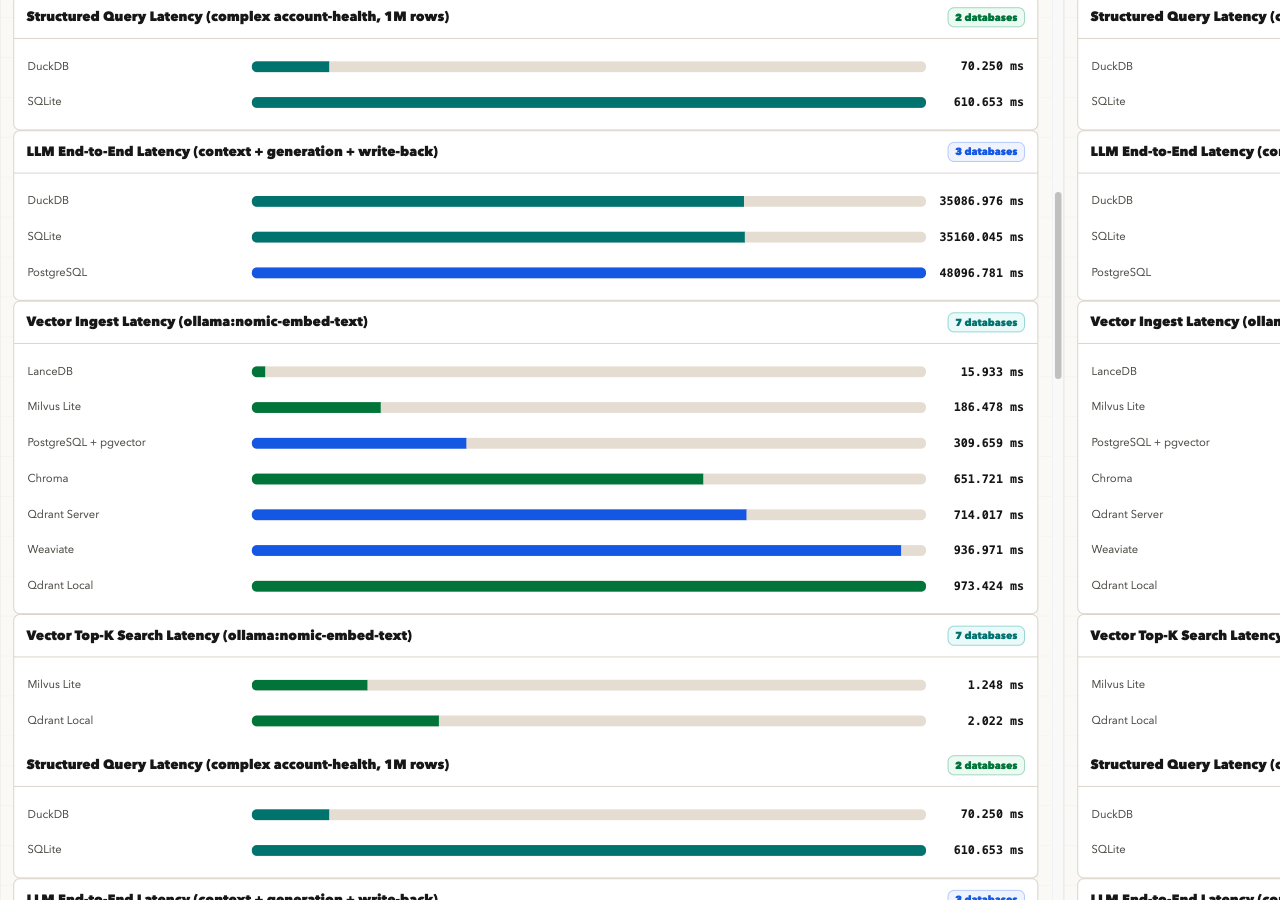
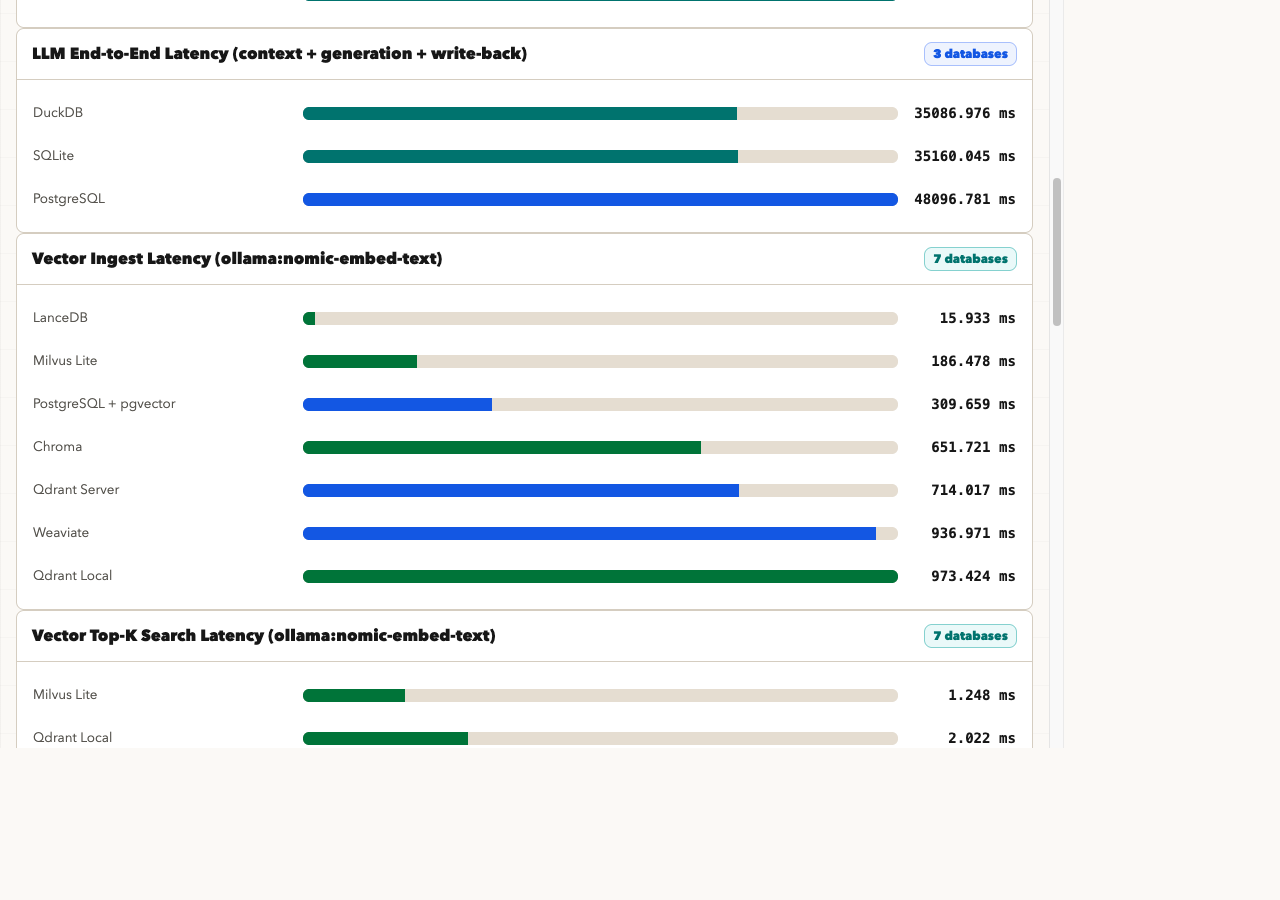
Tone down dashboard: smaller heading, remove winner/combative language, fix screenshots

diff --git a/dashboard/index.html b/dashboard/index.html
@@ -53,21 +53,18 @@
       content: "";
       position: absolute;
       inset: 0;
-      background:
-        linear-gradient(90deg, transparent 0 8%, rgba(8, 127, 122, 0.16) 8% 8.35%, transparent 8.35% 100%),
-        linear-gradient(90deg, transparent 0 38%, rgba(183, 121, 31, 0.16) 38% 38.25%, transparent 38.25% 100%),
-        linear-gradient(90deg, transparent 0 71%, rgba(37, 99, 235, 0.14) 71% 71.2%, transparent 71.2% 100%);
+      background: linear-gradient(90deg, transparent 0 8%, rgba(8, 127, 122, 0.12) 8% 8.2%, transparent 8.2% 100%);
       pointer-events: none;
     }
 
     .hero {
       position: relative;
-      min-height: 390px;
+      min-height: 0;
       display: grid;
       grid-template-columns: minmax(0, 1.05fr) minmax(390px, 0.95fr);
-      gap: 44px;
+      gap: 32px;
       align-items: center;
-      padding: 44px 0 34px;
+      padding: 34px 0 28px;
     }
 
     .eyebrow {
@@ -90,11 +87,11 @@
 
     h1 {
       margin: 0;
-      font-family: Georgia, Charter, "Times New Roman", serif;
-      font-size: clamp(2.55rem, 6.2vw, 5.8rem);
-      line-height: 0.92;
-      font-weight: 700;
-      max-width: 780px;
+      font-family: Avenir Next, Inter, ui-sans-serif, system-ui, sans-serif;
+      font-size: clamp(1.6rem, 2.6vw, 2.15rem);
+      line-height: 1.25;
+      font-weight: 800;
+      max-width: 620px;
     }
 
     .subtle {
@@ -115,7 +112,7 @@
       border: 1px solid var(--line);
       background: rgba(255, 255, 255, 0.78);
       border-radius: 8px;
-      box-shadow: 0 22px 60px rgba(23, 23, 23, 0.09);
+      box-shadow: 0 10px 26px rgba(23, 23, 23, 0.06);
       overflow: hidden;
     }
 
@@ -373,7 +370,7 @@
 
     @media (max-width: 560px) {
       .kpis { grid-template-columns: 1fr; }
-      h1 { font-size: 2.45rem; }
+      h1 { font-size: 1.5rem; }
     }
   </style>
 </head>
@@ -381,9 +378,9 @@
   <header>
     <div class="wrap hero">
       <div>
-        <div class="eyebrow">Apple Silicon local benchmark</div>
-        <h1>AI database systems, measured end to end.</h1>
-        <p class="subtle hero-copy">A local-first benchmark report separating database execution, vector retrieval, Ollama response latency, answer accuracy, and recommendation write-back over a complex account-health workload.</p>
+        <div class="eyebrow">Local benchmark on Apple Silicon</div>
+        <h1>A local test of scaling a database and LLM stack toward production.</h1>
+        <p class="subtle hero-copy">Personal, local-only measurements of database execution, vector retrieval, Ollama response latency, answer accuracy, and recommendation write-back over the same workload.</p>
         <div class="status"><span class="dot"></span><span id="statusText">Loading measured results</span></div>
       </div>
       <div class="hero-board" id="heroBoard"></div>
@@ -401,10 +398,9 @@
       <div class="wrap">
         <div class="section-head">
           <div>
-            <h2>Benchmark Comparison</h2>
-            <p class="subtle">Median latency by database for the same complex account-health workload, measured locally on the same hardware.</p>
+            <h2>Local Latency Measurements</h2>
+            <p class="subtle">Median latency recorded locally for the same workload on each database, showing how the stack behaves as data scale grows.</p>
           </div>
-          <span class="badge next">No fabricated rows</span>
         </div>
         <div id="chartArea"></div>
       </div>
@@ -414,8 +410,8 @@
       <div class="wrap">
         <div class="section-head">
           <div>
-            <h2>Comparison Summary</h2>
-            <p class="subtle">One table summarising the important factors that decide benchmark performance.</p>
+            <h2>Measurement Summary</h2>
+            <p class="subtle">One table summarising what was measured for each database in this local test.</p>
           </div>
           <span class="badge current">Single table</span>
         </div>
@@ -449,11 +445,6 @@
       return rows.filter(row => latestByDb.get(row.database) === row.benchmark_run_id);
     }
 
-    function fastest(rows, workloadName) {
-      const matches = latestRows(rows).filter(row => row.workload_name === workloadName && Number(row.failures || 0) === 0);
-      return matches.sort((a, b) => Number(a.median_ms || 0) - Number(b.median_ms || 0))[0];
-    }
-
     function latestAgentRows(rows) {
       return latestRows(rows.filter(row => row.workload_category === "ai_agent"));
     }
@@ -470,19 +461,21 @@
     }
 
     function renderHero(rows) {
-      const context = fastest(rows.filter(row => row.workload_category === "ai_agent"), "account_health_360_context_retrieval") || fastest(rows.filter(row => row.workload_category === "ai_agent"), "account_risk_context_retrieval");
-      const e2e = fastest(rows.filter(row => row.workload_category === "ai_agent"), "account_health_360_end_to_end") || fastest(rows.filter(row => row.workload_category === "ai_agent"), "account_risk_end_to_end");
-      const accuracy = latestAgentRows(rows).find(row => row.workload_name === "account_health_360_answer_accuracy");
+      const maxDatasetRows = Math.max(...rows.map(row => Number(row.dataset_rows || 0)), 0);
+      const dbCount = new Set(rows.map(row => row.database)).size;
       const vectorRows = latestVectorRows(rows);
       const vectorDbCount = new Set(vectorRows.map(row => row.database)).size;
-      const bestRecall = vectorRows.length ? Math.max(...vectorRows.map(row => Number(row.retrieval_recall_at_10 || 0))) : 0;
+      const accuracyRows = latestAgentRows(rows).filter(row => row.workload_name === "account_health_360_answer_accuracy");
+      const avgPrecision = accuracyRows.length
+        ? accuracyRows.reduce((sum, row) => sum + Number(row.answer_precision_at_k || 0), 0) / accuracyRows.length
+        : 0;
       const model = latestAgentRows(rows).map(row => parseNotes(row).llm_model).find(Boolean) || "not recorded";
       document.getElementById("heroBoard").innerHTML = [
-        ["Fastest DB phase", context ? context.database : "pending", context ? fmtMs(context.median_ms) : "run llm-benchmark"],
-        ["Fastest E2E LLM", e2e ? e2e.database : "pending", e2e ? fmtMs(e2e.median_ms) : "run llm-benchmark"],
-        ["AI Precision@k", accuracy ? Number(accuracy.answer_precision_at_k || 0).toFixed(3) : "pending", accuracy ? `${displayDatabaseName(accuracy.database)} answer scoring` : "run llm-benchmark"],
-        ["Best Recall@10", bestRecall ? bestRecall.toFixed(3) : "pending", `${vectorDbCount} vector DBs`],
+        ["Dataset scale", maxDatasetRows ? `${fmtNumber(maxDatasetRows)} rows` : "pending", "synthetic enterprise dataset"],
+        ["Databases tested", dbCount, "structured, vector, and LLM workflows"],
+        ["Vector databases tested", vectorDbCount, "local ingest and search"],
         ["Local model", model, "Ollama"],
+        ["Answer accuracy (avg)", accuracyRows.length ? avgPrecision.toFixed(3) : "pending", "precision@k across tested databases"],
       ].map(([key, value, note]) => `<div class="board-row">
         <div class="board-key">${key}</div>
         <div class="board-value">${value}</div>
@@ -642,7 +635,7 @@
       target.innerHTML = `<div class="panel table-wrap">
         <div class="panel-title"><span>Database Performance Summary</span><span class="badge current">${byDb.length} databases</span></div>
         <table>
-          <thead><tr><th>Database</th><th>Mode</th><th>Measured Areas</th><th>Fastest Workload</th><th>Best P95</th><th>LLM E2E</th><th>AI Precision/Recall</th><th>Write-Back</th><th>Recall@10</th><th>Rows</th><th>Storage</th><th>Failures</th></tr></thead>
+          <thead><tr><th>Database</th><th>Mode</th><th>Measured Areas</th><th>Lowest-Latency Workload</th><th>Lowest P95</th><th>LLM E2E</th><th>AI Precision/Recall</th><th>Write-Back</th><th>Recall@10</th><th>Rows</th><th>Storage</th><th>Failures</th></tr></thead>
           <tbody>${table}</tbody>
         </table>
       </div>`;

diff --git a/src/ai_db_benchmark/dashboard.py b/src/ai_db_benchmark/dashboard.py
@@ -84,21 +84,18 @@ DASHBOARD_TEMPLATE = r"""<!doctype html>
       content: "";
       position: absolute;
       inset: 0;
-      background:
-        linear-gradient(90deg, transparent 0 8%, rgba(8, 127, 122, 0.16) 8% 8.35%, transparent 8.35% 100%),
-        linear-gradient(90deg, transparent 0 38%, rgba(183, 121, 31, 0.16) 38% 38.25%, transparent 38.25% 100%),
-        linear-gradient(90deg, transparent 0 71%, rgba(37, 99, 235, 0.14) 71% 71.2%, transparent 71.2% 100%);
+      background: linear-gradient(90deg, transparent 0 8%, rgba(8, 127, 122, 0.12) 8% 8.2%, transparent 8.2% 100%);
       pointer-events: none;
     }
 
     .hero {
       position: relative;
-      min-height: 390px;
+      min-height: 0;
       display: grid;
       grid-template-columns: minmax(0, 1.05fr) minmax(390px, 0.95fr);
-      gap: 44px;
+      gap: 32px;
       align-items: center;
-      padding: 44px 0 34px;
+      padding: 34px 0 28px;
     }
 
     .eyebrow {
@@ -121,11 +118,11 @@ DASHBOARD_TEMPLATE = r"""<!doctype html>
 
     h1 {
       margin: 0;
-      font-family: Georgia, Charter, "Times New Roman", serif;
-      font-size: clamp(2.55rem, 6.2vw, 5.8rem);
-      line-height: 0.92;
-      font-weight: 700;
-      max-width: 780px;
+      font-family: Avenir Next, Inter, ui-sans-serif, system-ui, sans-serif;
+      font-size: clamp(1.6rem, 2.6vw, 2.15rem);
+      line-height: 1.25;
+      font-weight: 800;
+      max-width: 620px;
     }
 
     .subtle {
@@ -146,7 +143,7 @@ DASHBOARD_TEMPLATE = r"""<!doctype html>
       border: 1px solid var(--line);
       background: rgba(255, 255, 255, 0.78);
       border-radius: 8px;
-      box-shadow: 0 22px 60px rgba(23, 23, 23, 0.09);
+      box-shadow: 0 10px 26px rgba(23, 23, 23, 0.06);
       overflow: hidden;
     }
 
@@ -404,7 +401,7 @@ DASHBOARD_TEMPLATE = r"""<!doctype html>
 
     @media (max-width: 560px) {
       .kpis { grid-template-columns: 1fr; }
-      h1 { font-size: 2.45rem; }
+      h1 { font-size: 1.5rem; }
     }
   </style>
 </head>
@@ -412,9 +409,9 @@ DASHBOARD_TEMPLATE = r"""<!doctype html>
   <header>
     <div class="wrap hero">
       <div>
-        <div class="eyebrow">Apple Silicon local benchmark</div>
-        <h1>AI database systems, measured end to end.</h1>
-        <p class="subtle hero-copy">A local-first benchmark report separating database execution, vector retrieval, Ollama response latency, answer accuracy, and recommendation write-back over a complex account-health workload.</p>
+        <div class="eyebrow">Local benchmark on Apple Silicon</div>
+        <h1>A local test of scaling a database and LLM stack toward production.</h1>
+        <p class="subtle hero-copy">Personal, local-only measurements of database execution, vector retrieval, Ollama response latency, answer accuracy, and recommendation write-back over the same workload.</p>
         <div class="status"><span class="dot"></span><span id="statusText">Loading measured results</span></div>
       </div>
       <div class="hero-board" id="heroBoard"></div>
@@ -432,10 +429,9 @@ DASHBOARD_TEMPLATE = r"""<!doctype html>
       <div class="wrap">
         <div class="section-head">
           <div>
-            <h2>Benchmark Comparison</h2>
-            <p class="subtle">Median latency by database for the same complex account-health workload, measured locally on the same hardware.</p>
+            <h2>Local Latency Measurements</h2>
+            <p class="subtle">Median latency recorded locally for the same workload on each database, showing how the stack behaves as data scale grows.</p>
           </div>
-          <span class="badge next">No fabricated rows</span>
         </div>
         <div id="chartArea"></div>
       </div>
@@ -445,8 +441,8 @@ DASHBOARD_TEMPLATE = r"""<!doctype html>
       <div class="wrap">
         <div class="section-head">
           <div>
-            <h2>Comparison Summary</h2>
-            <p class="subtle">One table summarising the important factors that decide benchmark performance.</p>
+            <h2>Measurement Summary</h2>
+            <p class="subtle">One table summarising what was measured for each database in this local test.</p>
           </div>
           <span class="badge current">Single table</span>
         </div>
@@ -480,11 +476,6 @@ DASHBOARD_TEMPLATE = r"""<!doctype html>
       return rows.filter(row => latestByDb.get(row.database) === row.benchmark_run_id);
     }
 
-    function fastest(rows, workloadName) {
-      const matches = latestRows(rows).filter(row => row.workload_name === workloadName && Number(row.failures || 0) === 0);
-      return matches.sort((a, b) => Number(a.median_ms || 0) - Number(b.median_ms || 0))[0];
-    }
-
     function latestAgentRows(rows) {
       return latestRows(rows.filter(row => row.workload_category === "ai_agent"));
     }
@@ -501,19 +492,21 @@ DASHBOARD_TEMPLATE = r"""<!doctype html>
     }
 
     function renderHero(rows) {
-      const context = fastest(rows.filter(row => row.workload_category === "ai_agent"), "account_health_360_context_retrieval") || fastest(rows.filter(row => row.workload_category === "ai_agent"), "account_risk_context_retrieval");
-      const e2e = fastest(rows.filter(row => row.workload_category === "ai_agent"), "account_health_360_end_to_end") || fastest(rows.filter(row => row.workload_category === "ai_agent"), "account_risk_end_to_end");
-      const accuracy = latestAgentRows(rows).find(row => row.workload_name === "account_health_360_answer_accuracy");
+      const maxDatasetRows = Math.max(...rows.map(row => Number(row.dataset_rows || 0)), 0);
+      const dbCount = new Set(rows.map(row => row.database)).size;
       const vectorRows = latestVectorRows(rows);
       const vectorDbCount = new Set(vectorRows.map(row => row.database)).size;
-      const bestRecall = vectorRows.length ? Math.max(...vectorRows.map(row => Number(row.retrieval_recall_at_10 || 0))) : 0;
+      const accuracyRows = latestAgentRows(rows).filter(row => row.workload_name === "account_health_360_answer_accuracy");
+      const avgPrecision = accuracyRows.length
+        ? accuracyRows.reduce((sum, row) => sum + Number(row.answer_precision_at_k || 0), 0) / accuracyRows.length
+        : 0;
       const model = latestAgentRows(rows).map(row => parseNotes(row).llm_model).find(Boolean) || "not recorded";
       document.getElementById("heroBoard").innerHTML = [
-        ["Fastest DB phase", context ? context.database : "pending", context ? fmtMs(context.median_ms) : "run llm-benchmark"],
-        ["Fastest E2E LLM", e2e ? e2e.database : "pending", e2e ? fmtMs(e2e.median_ms) : "run llm-benchmark"],
-        ["AI Precision@k", accuracy ? Number(accuracy.answer_precision_at_k || 0).toFixed(3) : "pending", accuracy ? `${displayDatabaseName(accuracy.database)} answer scoring` : "run llm-benchmark"],
-        ["Best Recall@10", bestRecall ? bestRecall.toFixed(3) : "pending", `${vectorDbCount} vector DBs`],
+        ["Dataset scale", maxDatasetRows ? `${fmtNumber(maxDatasetRows)} rows` : "pending", "synthetic enterprise dataset"],
+        ["Databases tested", dbCount, "structured, vector, and LLM workflows"],
+        ["Vector databases tested", vectorDbCount, "local ingest and search"],
         ["Local model", model, "Ollama"],
+        ["Answer accuracy (avg)", accuracyRows.length ? avgPrecision.toFixed(3) : "pending", "precision@k across tested databases"],
       ].map(([key, value, note]) => `<div class="board-row">
         <div class="board-key">${key}</div>
         <div class="board-value">${value}</div>
@@ -673,7 +666,7 @@ DASHBOARD_TEMPLATE = r"""<!doctype html>
       target.innerHTML = `<div class="panel table-wrap">
         <div class="panel-title"><span>Database Performance Summary</span><span class="badge current">${byDb.length} databases</span></div>
         <table>
-          <thead><tr><th>Database</th><th>Mode</th><th>Measured Areas</th><th>Fastest Workload</th><th>Best P95</th><th>LLM E2E</th><th>AI Precision/Recall</th><th>Write-Back</th><th>Recall@10</th><th>Rows</th><th>Storage</th><th>Failures</th></tr></thead>
+          <thead><tr><th>Database</th><th>Mode</th><th>Measured Areas</th><th>Lowest-Latency Workload</th><th>Lowest P95</th><th>LLM E2E</th><th>AI Precision/Recall</th><th>Write-Back</th><th>Recall@10</th><th>Rows</th><th>Storage</th><th>Failures</th></tr></thead>
           <tbody>${table}</tbody>
         </table>
       </div>`;
